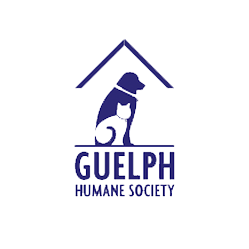
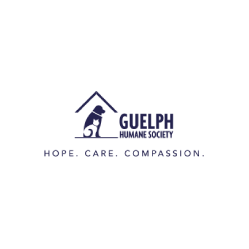
Charity Database Seeders (#30)
* GHS Content Seeder

* donateABLE db seed and new images for ghs and donateABLE

diff --git a/database/seeds/GHSCharitySeeder.php b/database/seeds/GHSCharitySeeder.php
@@ -1,0 +1,67 @@
+<?php
+
+use Illuminate\Database\Seeder;
+
+class GHSCharitySeeder extends Seeder
+{
+    /**
+     * Run the database seeds.
+     *
+     * @return void
+     */
+    public function run()
+    {
+        /**
+         * Begin Seed Data for Guelph Humane Society
+        **/
+        DB::table('charity')->insert([
+            [
+                'shortName' => 'GHS',
+                'longName' => 'Guelph Humane Society',
+                'logo' => 'ghs.png',
+                'shortDesc' => 'The Guelph Humane Society (GHS), with your generosity, provides the hope, care and compassion that the over 3,000 animals entering our care each year so desperately need. Every day there are pets, farm animals and wildlife that come through our doors that need more than just a temporary home, they need unique and individualized care.',
+                'longDesc' => 'The Guelph Humane Society envisions a world where all animals are treated humanely, with respect and compassion. Our mission is to advocate for all animals, and in particular those animals whose lives we can influence, through care, education, community support, protection, and leadership. To achieve those goals, we provide animal sheltering, pet rehoming, adoption services, veterinary care, pet identification, a progressive spay/neuter program, and return of lost pets. We actively participate in innovative programs like Cat Healthy, Capacity for Care and Cats & Birds. We also provide care and assistance with sick, orphaned and injured wildlife.
+
+As an affiliate of the Ontario Society for the Prevention of Cruelty to Animals (OSPCA), we employ OSPCA Agents to investigate allegations of cruelty or neglect in Guelph and Wellington County under provincial and federal animal cruelty legislation, and enforce those laws when necessary.
+
+The Guelph Humane Society also boasts strong education programs that impact thousands of children and youth annually. Through weekly school visits in Guelph and Wellington County, children have the opportunity to participate in welfare and animal safety-based curriculum delivered by our Humane Educator. We also offer a weekday Junior Humane Club, a March Break Camp and summer camp programs.
+
+The Guelph Humane Society is contracted by the City of Guelph, the Township of Centre Wellington and the Township of Guelph-Eramosa to provide animal services. Our staff enforce animal related by-laws, help stray domestic animals, respond to citizens with animal concerns, and provide emergency response to stray animals or animals (including wildlife) that are sick or injured.',
+                'tagline' => '',
+                'socialFeed' => 'https://www.facebook.com/plugins/page.php?href=https%3A%2F%2Fwww.facebook.com%2FGuelphHumaneSociety%2F&tabs=timeline&width=400&height=420&small_header=false&adapt_container_width=true&hide_cover=false&show_facepile=true&appId=571839313007975',
+                'websiteUrl' => 'https://guelphhumane.ca/',
+                'canadaHelpsUrl' => 'https://www.canadahelps.org/en/charities/the-guelph-humane-society/',
[1 lines of base64/hex data omitted]
+            ],
+        ]);
+
+        $charityId = DB::getPdo()->lastInsertId();
+
+        DB::table('socialLink')->insert([
+            [
+                'charityId' => $charityId,
+                'socialTypeId' => '1', //facebook
+                'socialUrl' => 'https://www.facebook.com/GuelphHumaneSociety/'
+            ],
+            [
+                'charityId' => $charityId,
+                'socialTypeId' => '2', //twitter
+                'socialUrl' => 'https://twitter.com/GuelphHumane'
+            ],
+            [
+                'charityId' => $charityId,
+                'socialTypeId' => '4', //email
+                'socialUrl' => 'mailto:info@guelphhumane.ca'
+            ],
+            [
+                'charityId' => $charityId,
+                'socialTypeId' => '5', //website
+                'socialUrl' => 'https://guelphhumane.ca/'
+            ]
+        ]);
+
+        /**
+         * End Seed Data for Guelph Humane Society
+        **/
+    }
+}

diff --git a/database/seeds/DonateABLECharitySeeder.php b/database/seeds/DonateABLECharitySeeder.php
@@ -1,0 +1,61 @@
+<?php
+
+use Illuminate\Database\Seeder;
+
+class DonateABLECharitySeeder extends Seeder
+{
+    /**
+     * Run the database seeds.
+     *
+     * @return void
+     */
+    public function run()
+    {
+        /**
+         * Begin Seed Data for donateABLE
+        **/
+        DB::table('charity')->insert([
+            [
+                'shortName' => '',
+                'longName' => 'donateABLE',
+                'logo' => 'donateable-charity.png',
+                'shortDesc' => 'This solution will take small amounts of computational power donated from individuals and pool it together into a larger resource to generate real monetary value for your charity. This website is going to allow anyone with a computer to make a difference no matter what their financial situation is, by donating unused computer time.',
+                'longDesc' => 'This solution will take small amounts of computational power donated from individuals and pool it together into a larger resource to generate real monetary value for your charity. This website is going to allow anyone with a computer to make a difference no matter what their financial situation is, by donating unused computer time.',
+                'tagline' => 'Support Local Charities in Guelph Without Opening your Wallet.',
+                'socialFeed' => 'https://www.facebook.com/plugins/page.php?href=https%3A%2F%2Fwww.facebook.com%2FdonateABLE%2F&tabs=timeline&width=400&height=420&small_header=false&adapt_container_width=true&hide_cover=false&show_facepile=true&appId=571839313007975',
+                'websiteUrl' => 'https://donateable.ca/',
+                'canadaHelpsUrl' => '',
[1 lines of base64/hex data omitted]
+            ],
+        ]);
+
+        $charityId = DB::getPdo()->lastInsertId();
+
+        DB::table('socialLink')->insert([
+            [
+                'charityId' => $charityId,
+                'socialTypeId' => '1', //facebook
+                'socialUrl' => 'https://www.facebook.com/donateABLE/'
+            ],
+            [
+                'charityId' => $charityId,
+                'socialTypeId' => '2', //twitter
+                'socialUrl' => 'https://twitter.com/donateABLE_ca'
+            ],
+            [
+                'charityId' => $charityId,
+                'socialTypeId' => '4', //email
+                'socialUrl' => 'mailto:donateable@donateable.ca'
+            ],
+            [
+                'charityId' => $charityId,
+                'socialTypeId' => '5', //website
+                'socialUrl' => 'https://donateable.ca/'
+            ]
+        ]);
+
+        /**
+         * End Seed Data for donateABLE
+        **/
+    }
+}

diff --git a/database/seeds/DatabaseSeeder.php b/database/seeds/DatabaseSeeder.php
@@ -15,5 +15,7 @@ class DatabaseSeeder extends Seeder
         $this->call(AnonymousUserSeeder::class);
         $this->call(SocialTypeSeeder::class);
         $this->call(CharitySeeder::class);
+        $this->call(GHSCharitySeeder::class);
+        $this->call(DonateABLECharitySeeder::class);
     }
 }
